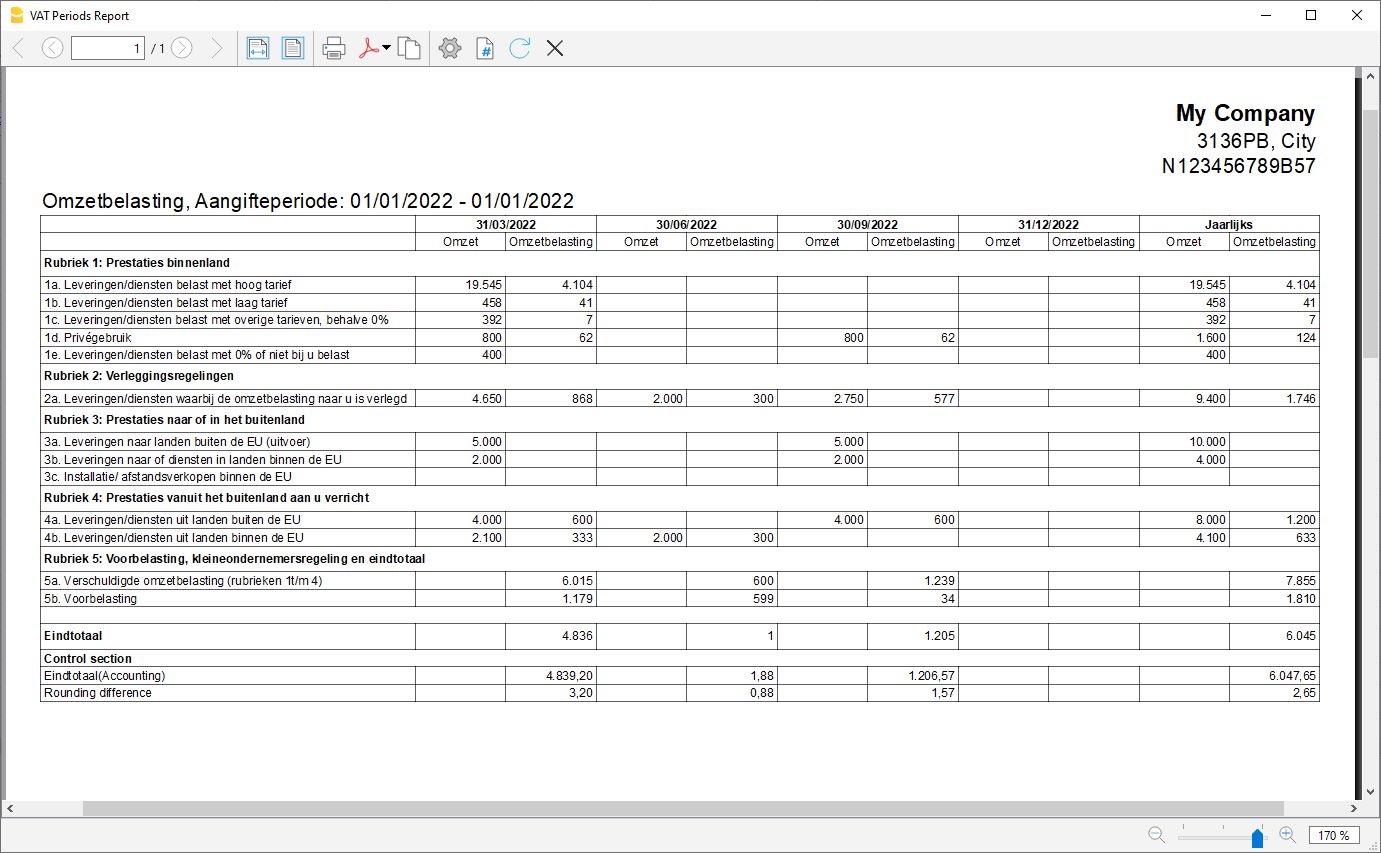
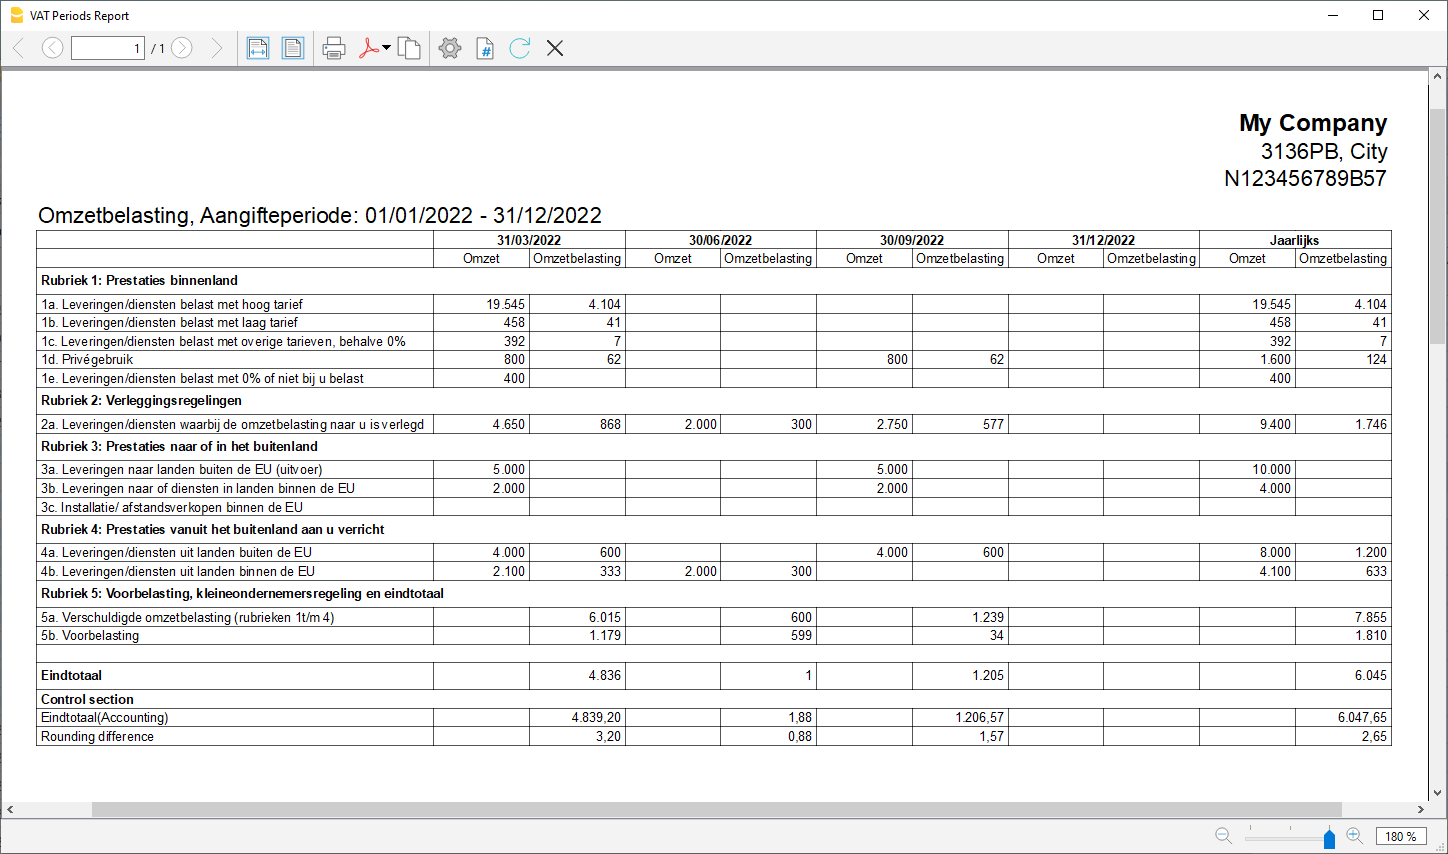
corrects date error in report annual overview

Changed region(s): [[0.0, 0.0, 1.0, 0.9449], [0.903, 0.9449, 0.9964, 1.0]]

diff --git a/VAT/VatReport/ch.banana.nl.app.vatannualoverview.report.js b/VAT/VatReport/ch.banana.nl.app.vatannualoverview.report.js
@@ -247,7 +247,7 @@
         return "@Cancel";
 
     var startDate=Banana.document.startPeriod();
-    var endDate=Banana.document.startPeriod();
+    var endDate=Banana.document.endPeriod();
 
     var reportType="periods";
     var vatReport= new VatReport(Banana.document,reportType);
